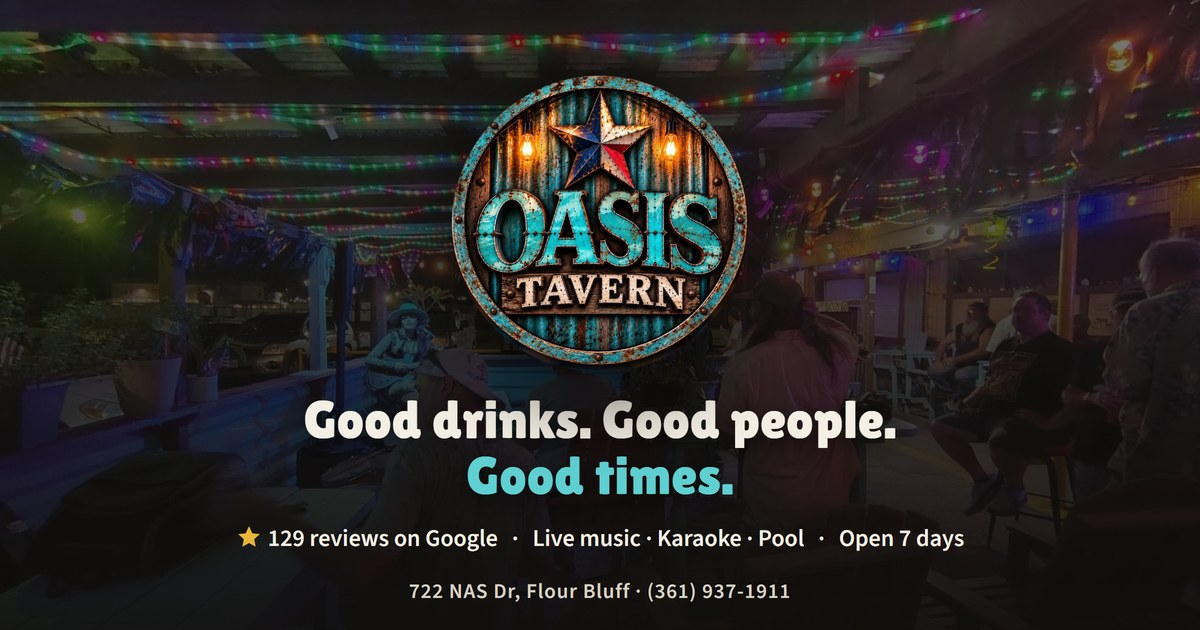
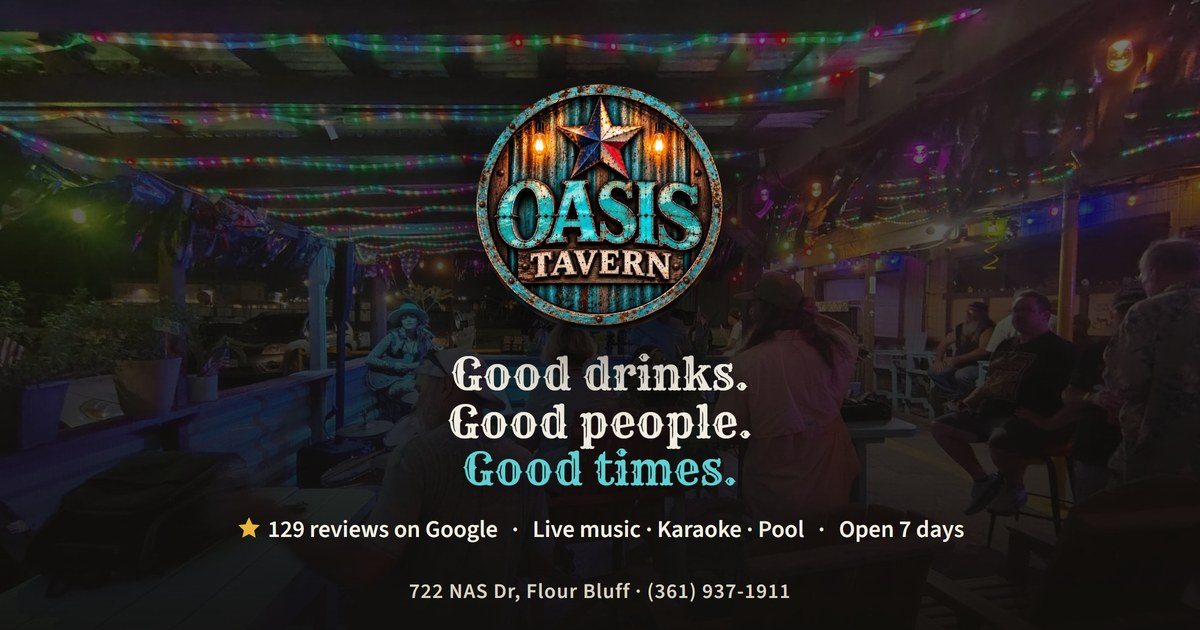
Fonts: Rye for headlines, Ultra for UI, to match the Western badge

Changed region(s): [[0.2467, 0.1206, 0.7708, 0.7841], [0.185, 0.8143, 0.8017, 0.8746]]

diff --git a/index.html b/index.html
@@ -12,21 +12,21 @@
 <meta property="og:site_name" content="Oasis Tavern">
 <meta property="og:type" content="website">
 <meta property="og:url" content="https://jzonkel1.github.io/oasis-tavern/">
-<meta property="og:image" content="https://jzonkel1.github.io/oasis-tavern/assets/img/og.jpg?v=6">
-<meta property="og:image:secure_url" content="https://jzonkel1.github.io/oasis-tavern/assets/img/og.jpg?v=6">
+<meta property="og:image" content="https://jzonkel1.github.io/oasis-tavern/assets/img/og.jpg?v=7">
+<meta property="og:image:secure_url" content="https://jzonkel1.github.io/oasis-tavern/assets/img/og.jpg?v=7">
 <meta property="og:image:alt" content="Oasis Tavern, 722 NAS Dr, Corpus Christi">
 <meta property="og:image:type" content="image/jpeg">
 <meta property="og:image:width" content="1200">
 <meta property="og:image:height" content="630">
 <meta name="twitter:card" content="summary_large_image">
-<meta name="twitter:image" content="https://jzonkel1.github.io/oasis-tavern/assets/img/og.jpg?v=6">
+<meta name="twitter:image" content="https://jzonkel1.github.io/oasis-tavern/assets/img/og.jpg?v=7">
 <link rel="icon" href="assets/favicon.png">
 <link rel="preload" as="image" href="assets/img/hero-m.jpg" media="(max-width:899px)">
 <link rel="preload" as="image" href="assets/img/hero-d.jpg" media="(min-width:900px)">
 <link rel="preload" as="image" href="assets/img/logo.png">
 <link rel="preconnect" href="https://fonts.googleapis.com">
 <link rel="preconnect" href="https://fonts.gstatic.com" crossorigin>
-<link href="https://fonts.googleapis.com/css2?family=Lilita+One&family=Source+Sans+3:ital,wght@0,400;0,600;0,700;1,400&display=swap" rel="stylesheet">
+<link href="https://fonts.googleapis.com/css2?family=Rye&family=Ultra&family=Source+Sans+3:ital,wght@0,400;0,600;0,700;1,400&display=swap" rel="stylesheet">
 <style>
 /* ====== TOKENS ====== */
 :root{
@@ -34,7 +34,7 @@
   --ink:#f4efe4; --ink2:#d9d2c3; --mute:#9d968a;
   --acc:#3eabad; --acc-rgb:62,171,173; --acc-deep:#2f8f91; --acc-ink:#07201f; --acc-text:#5fd0d2;
   --star:#e9b53a;
-  --f-head:'Lilita One','Arial Rounded MT Bold',sans-serif; --f-body:'Source Sans 3',system-ui,sans-serif;
+  --f-head:'Ultra',Georgia,serif; --f-display:'Rye','Ultra',Georgia,serif; --f-body:'Source Sans 3',system-ui,sans-serif;
   --r:12px; --wrap:1120px;
 }
 *{box-sizing:border-box;margin:0;padding:0}
@@ -44,13 +44,14 @@ img{display:block;max-width:100%;height:auto}
 a{color:inherit;text-decoration:none}
 button{font:inherit;color:inherit}
 .wrap{width:min(var(--wrap),100% - 2.5rem);margin-inline:auto;position:relative}
-h1,h2,h3{font-family:var(--f-head);font-weight:400;line-height:1.02;letter-spacing:.005em}
-h2{font-size:clamp(2rem,4.2vw,3rem)}
-h3{font-size:1.35rem}
+h1,h2,h3{font-family:var(--f-head);font-weight:400;line-height:1.05;letter-spacing:0}
+h1,h2{font-family:var(--f-display);line-height:1.08}
+h2{font-size:clamp(1.7rem,3.6vw,2.5rem)}
+h3{font-size:1.2rem}
 section{padding:clamp(3.5rem,7vw,5.5rem) 0;position:relative}
 .sec-head{margin-bottom:2rem;display:flex;align-items:flex-end;justify-content:space-between;gap:1.5rem;flex-wrap:wrap}
 .sec-head p{color:var(--ink2);font-size:1.08rem;max-width:56ch}
-.btn{display:inline-flex;align-items:center;justify-content:center;gap:.55rem;padding:.95rem 1.5rem;border-radius:6px;font-family:var(--f-head);font-weight:400;font-size:1.12rem;letter-spacing:.01em;border:2px solid transparent;transition:transform .15s,background .2s;cursor:pointer;white-space:nowrap;line-height:1}
+.btn{display:inline-flex;align-items:center;justify-content:center;gap:.55rem;padding:.95rem 1.5rem;border-radius:6px;font-family:var(--f-head);font-weight:400;font-size:1rem;letter-spacing:.01em;border:2px solid transparent;transition:transform .15s,background .2s;cursor:pointer;white-space:nowrap;line-height:1}
 .btn:active{transform:translateY(1px)}
 .btn-acc{background:var(--acc);color:#fff;border-color:var(--acc);text-shadow:0 1px 0 rgba(0,0,0,.25)}
 .btn-acc:hover{background:var(--acc-deep);border-color:var(--acc-deep)}
@@ -64,15 +65,15 @@ section{padding:clamp(3.5rem,7vw,5.5rem) 0;position:relative}
 /* ====== HEADER ====== */
 .hdr{position:sticky;top:0;z-index:60;background:rgba(17,17,16,.88);backdrop-filter:blur(12px);-webkit-backdrop-filter:blur(12px);border-bottom:1px solid var(--line)}
 .hdr .wrap{display:flex;align-items:center;justify-content:space-between;gap:1rem;height:70px}
-.brand{display:flex;align-items:center;gap:.7rem;font-family:var(--f-head);font-size:1.25rem;color:#fff;line-height:1}
+.brand{display:flex;align-items:center;gap:.7rem;font-family:var(--f-display);font-size:1.15rem;color:#fff;line-height:1}
 .brand img{height:50px;width:50px;border-radius:50%;box-shadow:0 2px 10px rgba(0,0,0,.6)}
 .brand span{display:none}
 @media (min-width:480px){.brand span{display:block}}
 .nav{display:flex;align-items:center;gap:.1rem}
-.nav a{padding:.6rem .9rem;border-radius:6px;font-family:var(--f-head);font-weight:400;font-size:1.05rem;letter-spacing:.01em;color:var(--ink2)}
+.nav a{padding:.6rem .9rem;border-radius:6px;font-family:var(--f-head);font-weight:400;font-size:.92rem;letter-spacing:.01em;color:var(--ink2)}
 .nav a:hover{color:#fff;background:rgba(255,255,255,.06)}
 .hdr-cta{display:flex;align-items:center;gap:.5rem}
-.hdr-cta .btn{padding:.7rem 1.1rem;font-size:1rem}
+.hdr-cta .btn{padding:.7rem 1.1rem;font-size:.9rem}
 .burger{display:none;width:44px;height:44px;border-radius:6px;border:1px solid var(--line2);background:rgba(255,255,255,.04);align-items:center;justify-content:center;cursor:pointer}
 @media (max-width:900px){.nav{display:none}.burger{display:flex}.hdr-cta .btn span{display:none}.hdr-cta .btn{padding:.7rem .85rem}}
 .mnav{position:fixed;inset:0;z-index:80;background:rgba(17,17,16,.985);display:none;flex-direction:column;padding:1rem 1.25rem calc(1.25rem + env(safe-area-inset-bottom));overflow-y:auto}
@@ -80,7 +81,7 @@ section{padding:clamp(3.5rem,7vw,5.5rem) 0;position:relative}
 .mnav__top{display:flex;align-items:center;justify-content:space-between;height:56px;margin-bottom:.5rem}
 .mnav__top img{height:44px;width:44px;border-radius:50%}
 .mnav__close{width:44px;height:44px;border-radius:6px;border:1px solid var(--line2);background:rgba(255,255,255,.05);font-size:1.5rem;cursor:pointer}
-.mnav>a{font-family:var(--f-head);font-weight:400;font-size:1.45rem;letter-spacing:.01em;padding:1rem .25rem;border-bottom:1px solid var(--line);display:flex;justify-content:space-between;align-items:center}
+.mnav>a{font-family:var(--f-head);font-weight:400;font-size:1.2rem;letter-spacing:.01em;padding:1rem .25rem;border-bottom:1px solid var(--line);display:flex;justify-content:space-between;align-items:center}
 .mnav>a .ic{color:var(--acc-text)}
 .mnav .btn{margin-top:1.25rem}
 .mnav .mn-sub{color:var(--mute);font-size:.95rem;margin-top:1rem;text-align:center}
@@ -95,7 +96,7 @@ body.menu-open{overflow:hidden}
 .hero__veil{position:absolute;inset:0;background:linear-gradient(180deg,rgba(16,15,13,.5) 0%,rgba(16,15,13,.34) 25%,rgba(16,15,13,.8) 52%,rgba(16,15,13,.93) 74%,rgba(16,15,13,.97) 100%)}
 .hero .wrap{text-align:center}
 .hero__sign{width:min(56vw,250px);margin:0 auto 1.2rem;filter:drop-shadow(0 18px 40px rgba(0,0,0,.7))}
-.hero h1{font-size:clamp(2.2rem,8vw,4.4rem);text-shadow:0 4px 24px rgba(0,0,0,.6)}
+.hero h1{font-size:clamp(2rem,7.4vw,3.8rem);text-shadow:0 4px 24px rgba(0,0,0,.6)}
 .hero h1 em{font-style:normal;color:var(--acc-text)}
 .hero p{color:var(--ink);font-size:clamp(1.08rem,1.6vw,1.3rem);max-width:46ch;margin:.9rem auto 1.4rem;text-shadow:0 1px 12px rgba(0,0,0,.6)}
 .hero__cta{display:flex;flex-direction:column;gap:.6rem;justify-content:center;align-items:stretch;max-width:340px;margin:0 auto}
@@ -109,7 +110,7 @@ body.menu-open{overflow:hidden}
   .hero{align-items:center;padding:5rem 0 4rem;min-height:min(100svh,860px)}
   .hero .wrap{text-align:left;display:grid;grid-template-columns:minmax(0,1.15fr) minmax(0,.85fr);align-items:center;gap:3rem}
   .hero__sign{width:min(30vw,400px);margin:0;order:2;justify-self:end}
-  .hero h1{font-size:clamp(2.8rem,4.5vw,4.1rem)}
+  .hero h1{font-size:clamp(2.6rem,4vw,3.6rem)}
   .hero p{margin-inline:0}
   .hero__cta{justify-content:flex-start;margin-inline:0}
   .hero__cta .call-m{display:none}
@@ -126,7 +127,7 @@ body.menu-open{overflow:hidden}
 .rev__score{display:flex;align-items:center;gap:1rem}
 .rev__score .stars{font-size:1.3rem}
 .rev__score small{display:block;color:var(--ink2);font-size:1.05rem;font-weight:600}
-.rev h2{font-size:clamp(1.7rem,3vw,2.3rem)}
+.rev h2{font-size:clamp(1.5rem,2.6vw,2rem)}
 .g-badge{display:inline-flex;align-items:center;gap:.5rem;border:1px solid var(--line2);border-radius:6px;padding:.55rem 1rem;font-size:.95rem;font-weight:600;color:var(--ink2)}
 .g-badge .ic{width:16px;height:16px}
 .marq{position:relative;overflow:hidden;mask-image:linear-gradient(90deg,transparent,#000 5%,#000 95%,transparent);-webkit-mask-image:linear-gradient(90deg,transparent,#000 5%,#000 95%,transparent)}
@@ -147,9 +148,9 @@ body.menu-open{overflow:hidden}
 .wk{background:var(--card);border:1px solid var(--line);border-radius:var(--r);overflow:hidden;display:grid;grid-template-rows:auto 1fr}
 .wk__img{aspect-ratio:4/3;overflow:hidden;position:relative}
 .wk__img img{width:100%;height:100%;object-fit:cover;object-position:50% 20%}
-.wk__day{position:absolute;top:.9rem;left:.9rem;background:var(--acc);color:#fff;border-radius:4px;padding:.4rem .7rem;font-family:var(--f-head);font-weight:400;font-size:1rem;letter-spacing:.02em;line-height:1}
+.wk__day{position:absolute;top:.9rem;left:.9rem;background:var(--acc);color:#fff;border-radius:4px;padding:.4rem .7rem;font-family:var(--f-head);font-weight:400;font-size:.85rem;letter-spacing:.02em;line-height:1}
 .wk__body{padding:1.1rem 1.2rem 1.3rem;display:grid;gap:.4rem;align-content:start}
-.wk__body h3{font-size:1.35rem}
+.wk__body h3{font-size:1.15rem}
 .wk__body p{font-size:1rem;color:var(--ink2);line-height:1.45}
 .wk__body .time{color:var(--acc-text);font-weight:700;font-size:1rem}
 @media (max-width:1000px){.week{grid-template-columns:repeat(2,minmax(0,1fr))}}
@@ -196,7 +197,7 @@ body.menu-open{overflow:hidden}
 
 /* ====== STICKY CALL BAR ====== */
 .callbar{position:fixed;left:0;right:0;bottom:0;z-index:50;display:none;grid-template-columns:1fr 1fr;gap:.5rem;padding:.6rem .75rem calc(.6rem + env(safe-area-inset-bottom));background:rgba(17,17,16,.94);backdrop-filter:blur(12px);border-top:1px solid var(--line2)}
-.callbar .btn{padding:.85rem .6rem;font-size:1.05rem}
+.callbar .btn{padding:.85rem .6rem;font-size:.95rem}
 @media (max-width:760px){.callbar{display:grid}}
 
 .rv{opacity:0;transform:translateY(14px);transition:opacity .55s ease,transform .55s ease}

diff --git a/research/fonts-test2.html b/research/fonts-test2.html
@@ -1,0 +1,20 @@
+<!DOCTYPE html><html><head><meta charset="utf-8">
+<link href="https://fonts.googleapis.com/css2?family=Rye&family=Ultra&family=Bevan&family=Sancreek&family=Holtwood+One+SC&family=Smokum&family=Source+Sans+3:wght@600&display=swap" rel="stylesheet">
+<style>
+body{margin:0;background:#100f0d;color:#f4efe4;font-family:'Source Sans 3',sans-serif;padding:24px;width:1400px}
+.row{display:grid;grid-template-columns:220px 1fr;align-items:center;gap:20px;border-bottom:1px solid #333;padding:20px 0}
+.row img{width:200px}
+.lbl{font-size:16px;color:#9d968a}
+h1{margin:0;font-size:60px;line-height:1.02;font-weight:400}
+h1 em{font-style:normal;color:#5fd0d2}
+.btn{display:inline-block;margin:12px 10px 0 0;background:#3eabad;color:#fff;padding:12px 22px;border-radius:6px;font-size:20px}
+.nav{display:inline-block;margin-left:10px;font-size:18px;color:#d9d2c3}
+</style></head><body>
+<div class="row"><img src="../assets/img/logo-512.png"><div class="lbl">their badge, for reference</div></div>
+<div class="row"><div class="lbl">Rye</div><div><h1 style="font-family:'Rye'">Good drinks. Good people. <em>Good times.</em></h1><span class="btn" style="font-family:'Rye'">Call the Bar</span><span class="nav" style="font-family:'Rye'">Reviews &nbsp; What's On &nbsp; Photos</span></div></div>
+<div class="row"><div class="lbl">Ultra</div><div><h1 style="font-family:'Ultra'">Good drinks. Good people. <em>Good times.</em></h1><span class="btn" style="font-family:'Ultra'">Call the Bar</span><span class="nav" style="font-family:'Ultra'">Reviews &nbsp; What's On &nbsp; Photos</span></div></div>
+<div class="row"><div class="lbl">Bevan</div><div><h1 style="font-family:'Bevan'">Good drinks. Good people. <em>Good times.</em></h1><span class="btn" style="font-family:'Bevan'">Call the Bar</span><span class="nav" style="font-family:'Bevan'">Reviews &nbsp; What's On &nbsp; Photos</span></div></div>
+<div class="row"><div class="lbl">Sancreek</div><div><h1 style="font-family:'Sancreek'">Good drinks. Good people. <em>Good times.</em></h1><span class="btn" style="font-family:'Sancreek'">Call the Bar</span><span class="nav" style="font-family:'Sancreek'">Reviews &nbsp; What's On &nbsp; Photos</span></div></div>
+<div class="row"><div class="lbl">Holtwood One SC</div><div><h1 style="font-family:'Holtwood One SC';font-size:50px">Good drinks. Good people. <em>Good times.</em></h1><span class="btn" style="font-family:'Holtwood One SC'">Call the Bar</span><span class="nav" style="font-family:'Holtwood One SC'">Reviews &nbsp; What's On &nbsp; Photos</span></div></div>
+<div class="row"><div class="lbl">Smokum</div><div><h1 style="font-family:'Smokum'">Good drinks. Good people. <em>Good times.</em></h1><span class="btn" style="font-family:'Smokum'">Call the Bar</span><span class="nav" style="font-family:'Smokum'">Reviews &nbsp; What's On &nbsp; Photos</span></div></div>
+</body></html>

diff --git a/research/og.html b/research/og.html
@@ -1,14 +1,14 @@
 <!DOCTYPE html>
 <html lang="en"><head><meta charset="utf-8">
-<link href="https://fonts.googleapis.com/css2?family=Lilita+One&family=Source+Sans+3:wght@600;700&display=swap" rel="stylesheet">
+<link href="https://fonts.googleapis.com/css2?family=Rye&family=Source+Sans+3:wght@600;700&display=swap" rel="stylesheet">
 <style>
 /* 1200x630 share card. Everything that matters lives inside the center 630px safe box (x 285-915). */
 html,body{margin:0;width:1200px;height:630px;overflow:hidden;background:#111110;font-family:'Source Sans 3',sans-serif}
 .bg{position:absolute;inset:0;background:url('../assets/img/hero-d.jpg') center 45%/cover no-repeat}
 .veil{position:absolute;inset:0;background:linear-gradient(180deg,rgba(16,15,13,.55),rgba(16,15,13,.75) 55%,rgba(16,15,13,.95))}
 .c{position:absolute;inset:0;display:flex;flex-direction:column;align-items:center;justify-content:center;text-align:center;color:#f4efe4}
-.sign{width:300px;filter:drop-shadow(0 20px 40px rgba(0,0,0,.75));margin-bottom:18px}
-h1{font-family:'Lilita One',sans-serif;font-weight:400;font-size:53px;line-height:1.04;margin:0;letter-spacing:.005em;text-shadow:0 6px 24px rgba(0,0,0,.6)}
+.sign{width:250px;filter:drop-shadow(0 20px 40px rgba(0,0,0,.75));margin-bottom:18px}
+h1{font-family:'Rye',serif;font-weight:400;font-size:44px;line-height:1.08;margin:0;letter-spacing:.005em;text-shadow:0 6px 24px rgba(0,0,0,.6)}
 h1 em{font-style:normal;color:#5fd0d2}
 .row{margin-top:18px;display:flex;align-items:center;gap:14px;font-size:24px;font-weight:600;color:#f4efe4}
 .star{display:inline-block;width:26px;height:26px;vertical-align:-4px;margin-right:6px}
@@ -18,7 +18,7 @@ h1 em{font-style:normal;color:#5fd0d2}
 <div class="bg"></div><div class="veil"></div>
 <div class="c">
   <img class="sign" src="../assets/img/logo.png" alt="">
-  <h1>Good drinks. Good people.<br><em>Good times.</em></h1>
+  <h1>Good drinks.<br>Good people.<br><em>Good times.</em></h1>
   <div class="row"><span><svg class="star" viewBox="0 0 24 24" fill="#e9b53a"><polygon points="12,2 15.1,8.6 22,9.3 16.8,14.1 18.2,21 12,17.6 5.8,21 7.2,14.1 2,9.3 8.9,8.6"/></svg>129 reviews on Google</span><span>·</span><span>Live music · Karaoke · Pool</span><span>·</span><span>Open 7 days</span></div>
 </div>
 <div class="foot">722 NAS Dr, Flour Bluff · (361) 937-1911</div>

diff --git a/research-notes.md b/research-notes.md
@@ -67,3 +67,11 @@ Fix on signing: set GBP website to the new domain; optionally claim/delete the e
 - Mark = the real hand-painted yellow sign (FB photo 62, perspective-corrected -> assets/img/sign.jpg). Timeline: yellow board was the original gable sign (old Google exterior photo), blue roof sign replaced it (2022 FB photos); yellow now hangs on the patio wall. Both real; blue shown in Find Us as the landmark.
 - Fonts Antonio + Source Sans 3. Accent #c9a54a (sign yellow, brightened from the weathered #b7a05f sample). Removed: grain, kickers, info band, checklist section.
 - Order: hero -> reviews -> what's on -> photos -> find us. OG card v2 uses the sign; headline measured inside the 285-915 safe box.
+
+## v4 (9/24/26 evening) — match the NEW Facebook page's brand
+- Second FB page: facebook.com/oasistavern78418 (page id 61591361201758), 112 followers, someone other than Teddy runs it. Round teal badge logo + "From Dive Bar to Superstar" cover, both AI art. 142 photos in research/fb2/.
+- Logo: assets/img/logo.png (circle-cut from the 1254px profile pic), logo-512.png, favicon. Accent teal #3eabad (sampled), teal text #5fd0d2. Font stays Lilita One.
+- Hero photo now the new page's full-patio-at-dusk shot (fb2 keep #24); mobile = dancing couple (#21). Yellow painted sign moved to the gallery.
+- Weekly = 4 nights from their "This Week at the O" flyers (Sept 2026): Wed Open Jam w/ Darren McGill 7:30 + 8-ball; Fri Ladies Night 50c off beers; Sat Karaoke w/ Tune in a Bucket 7:30; Sun Football + food.
+- H1 = their slogan "Good drinks. Good people. Good times." OG card v6 uses the badge.
+- Old versions: research/index-v1.html (Zilla), index-v3-yellow.html (yellow sign / Lilita).
